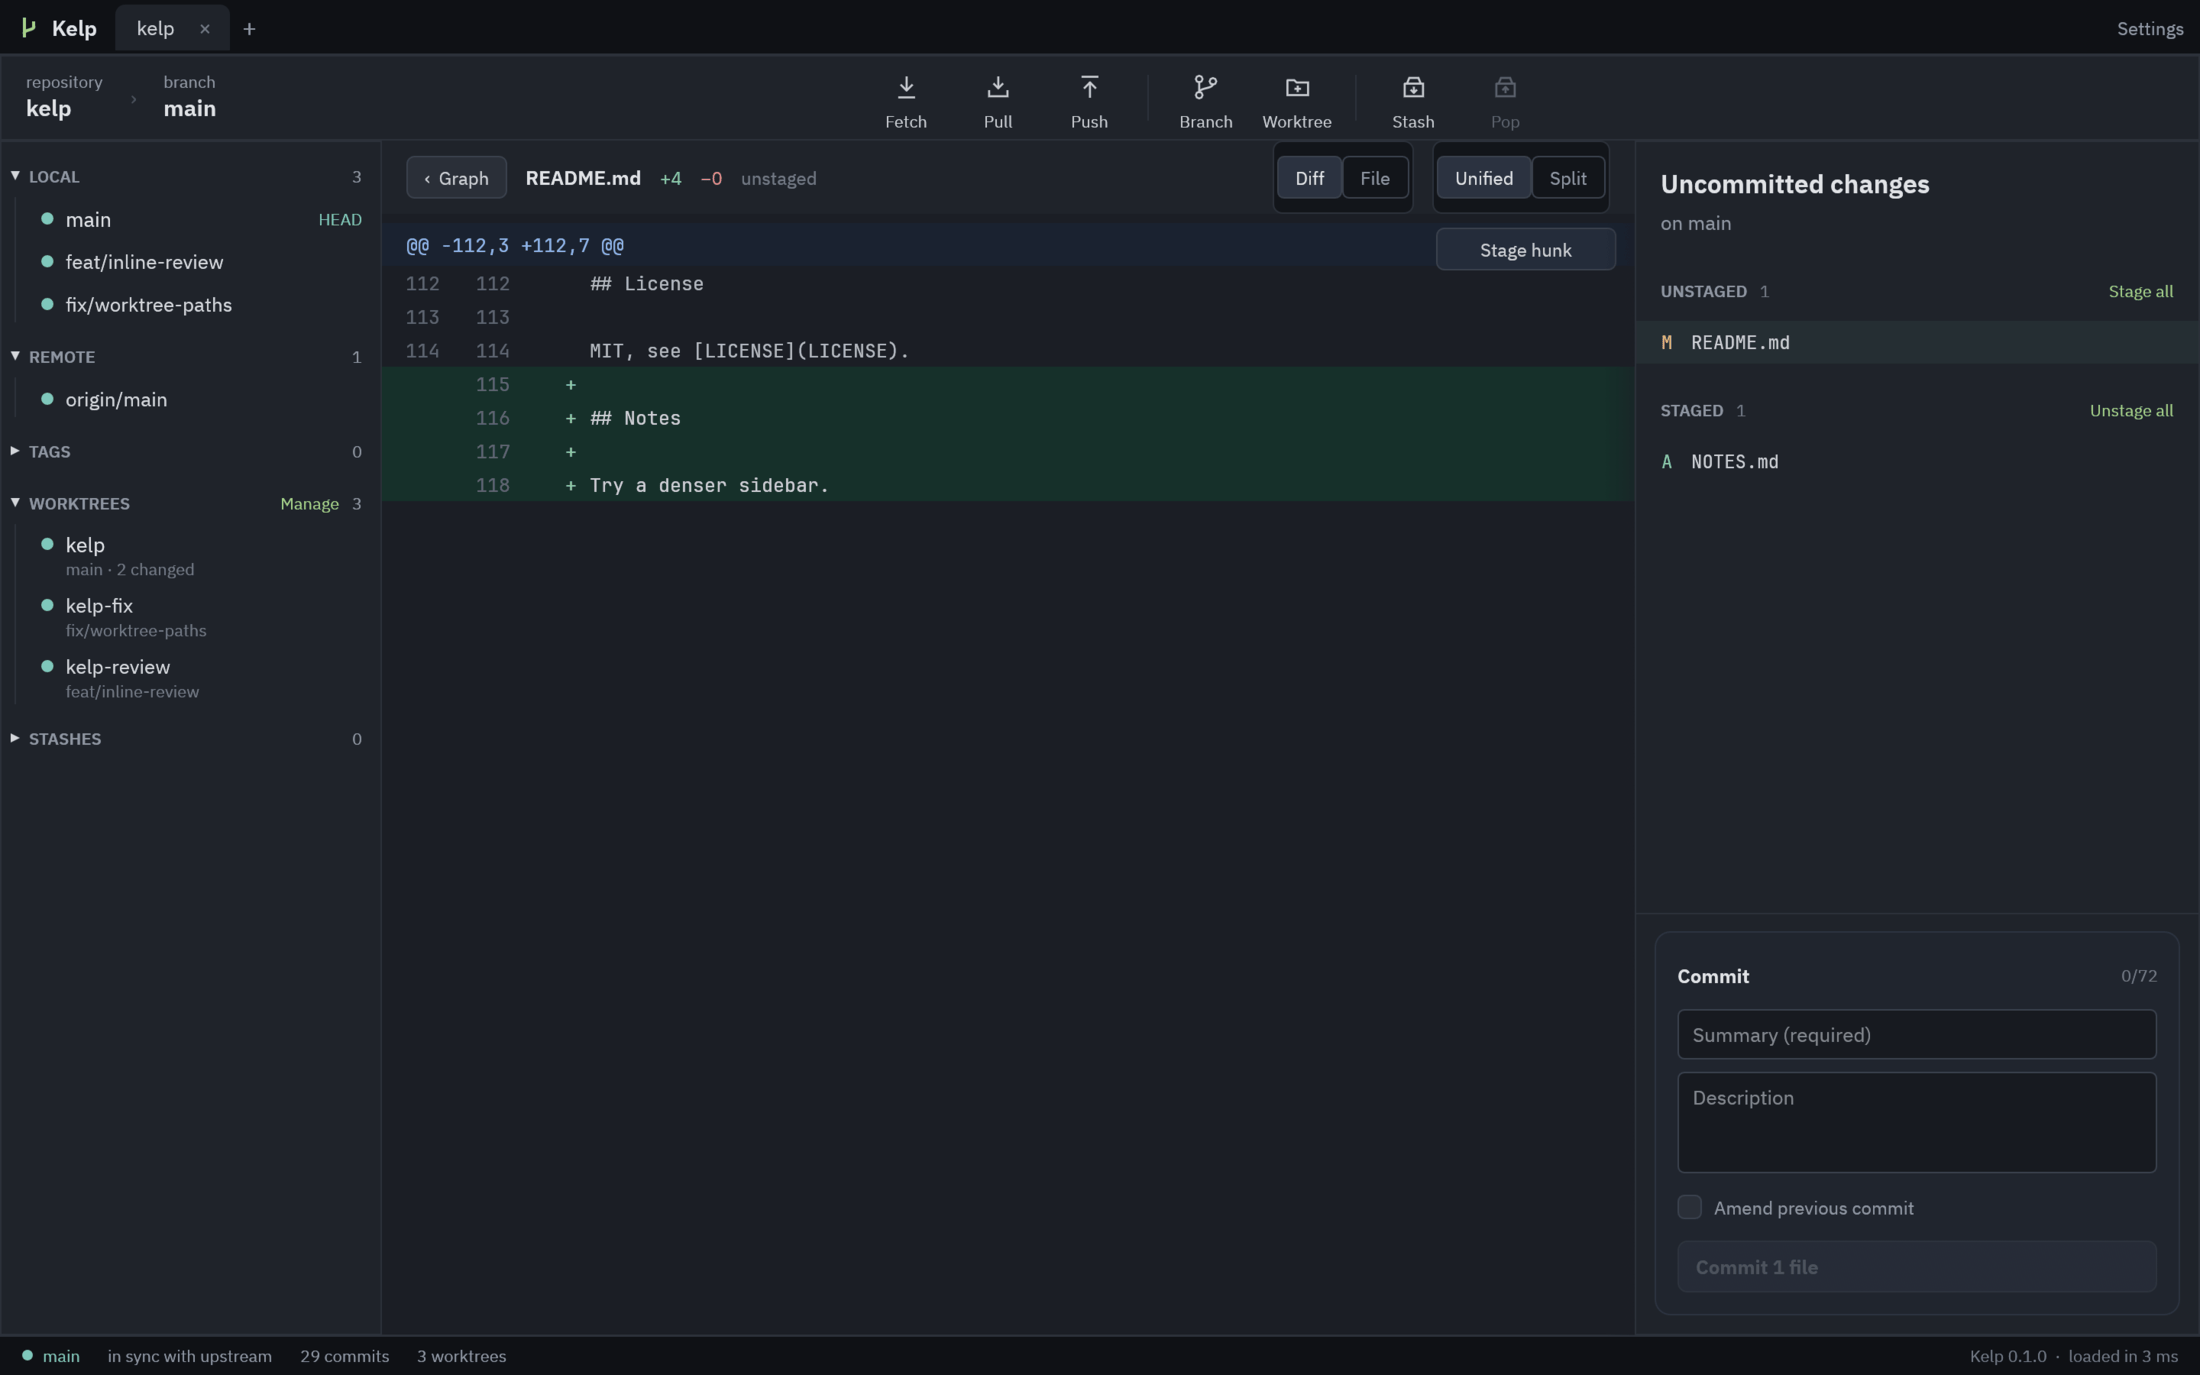
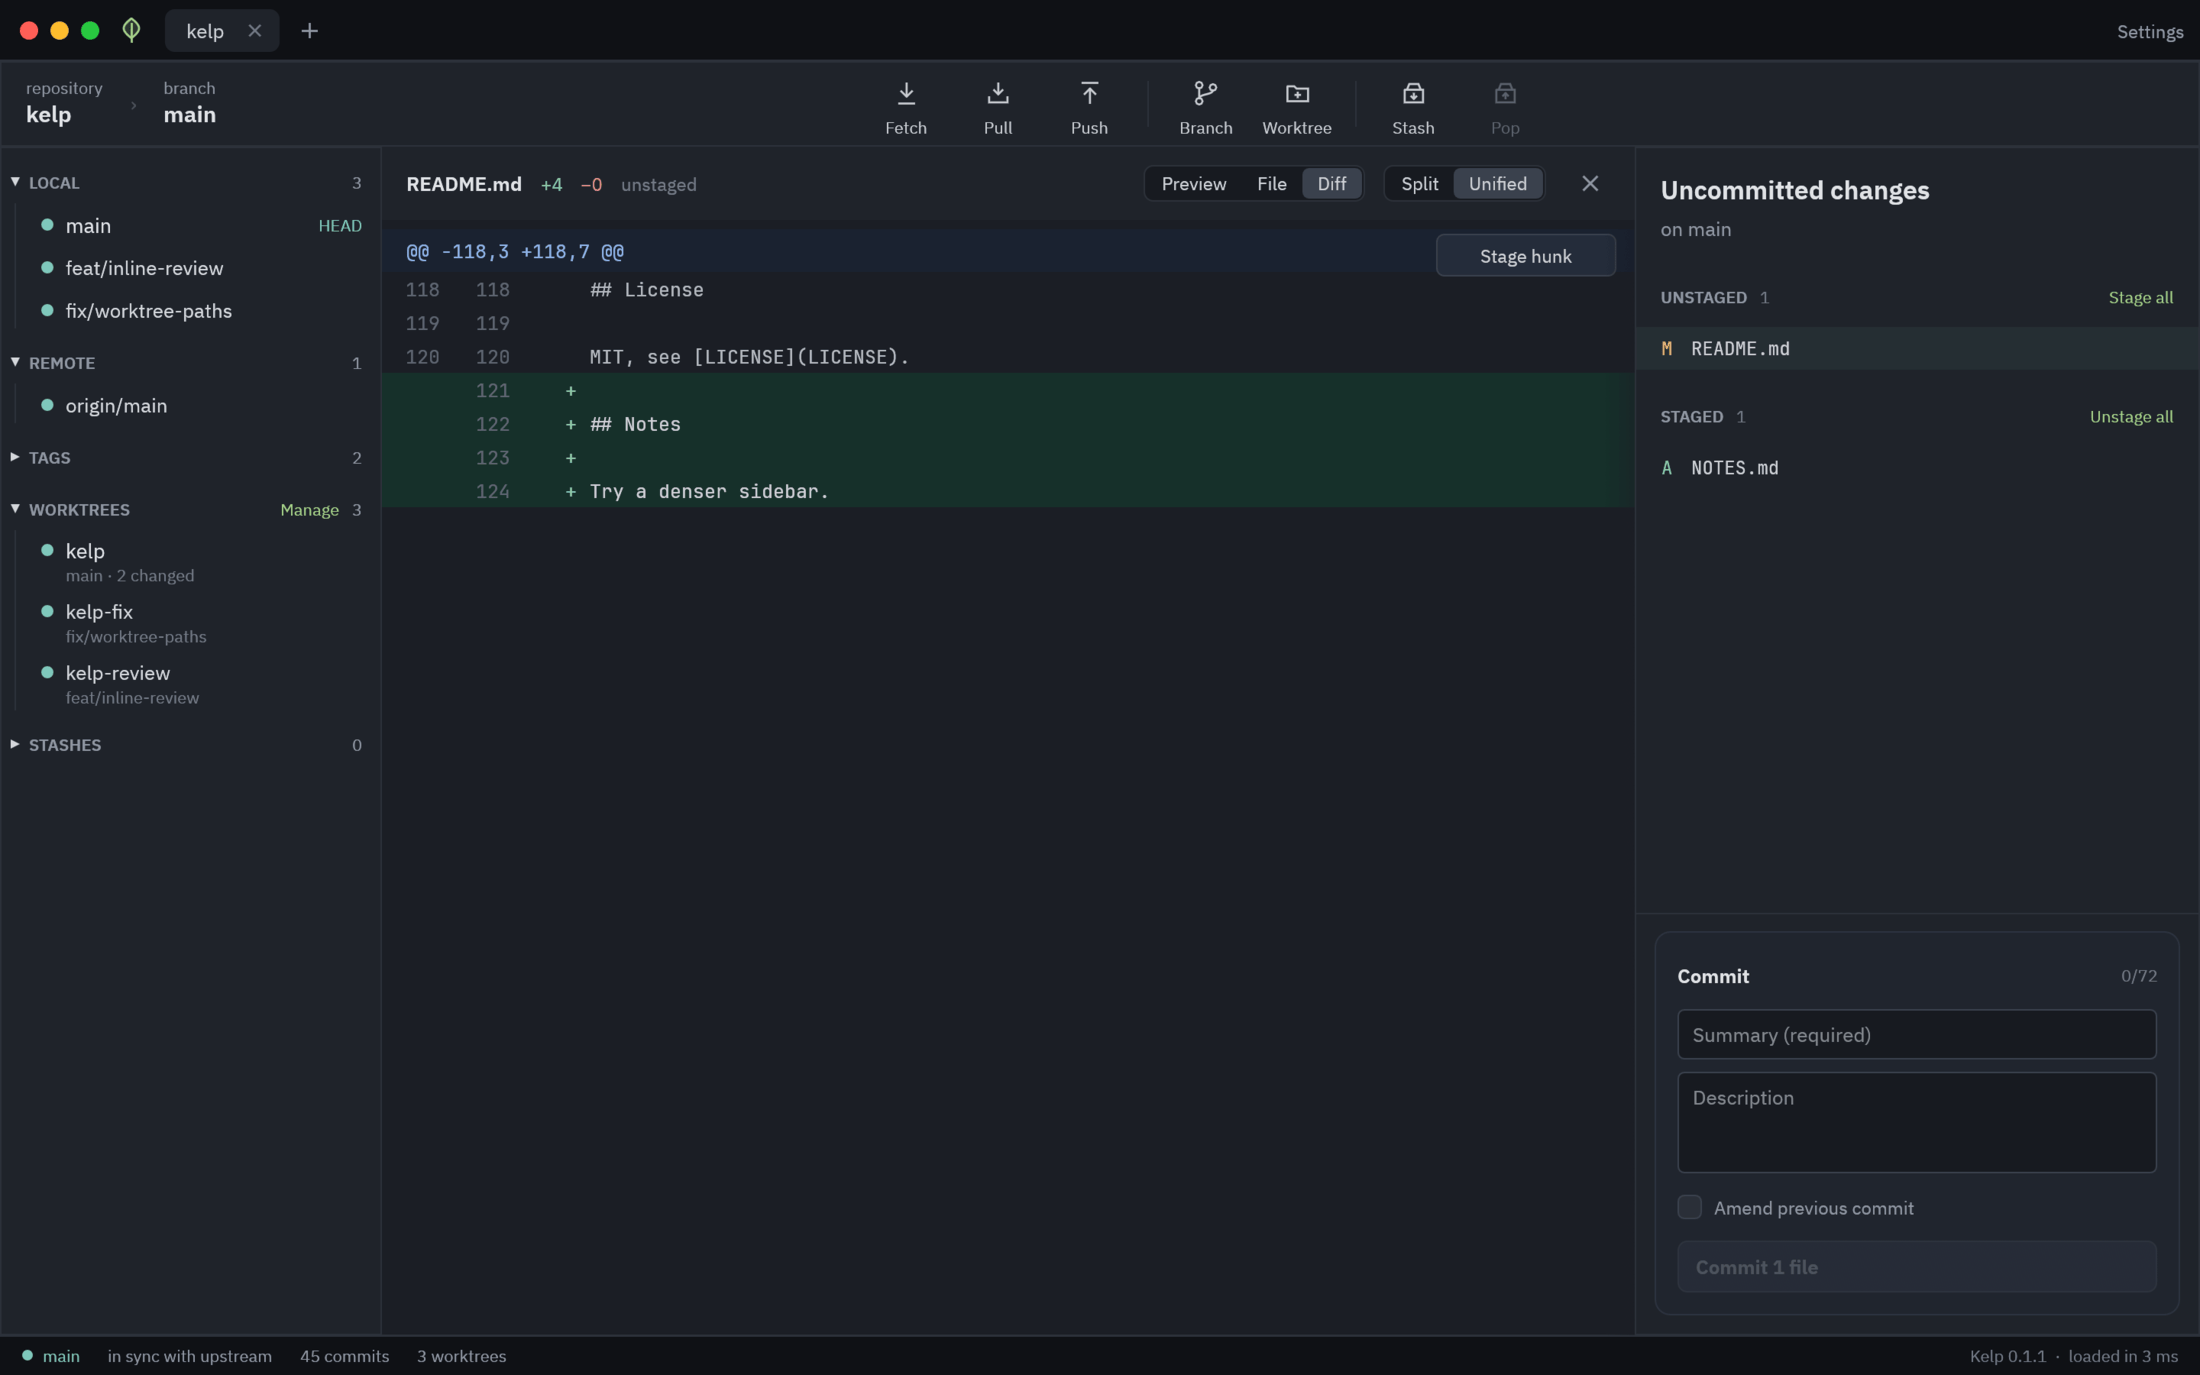
docs(site): screenshots with the new tab strip
Screenshot runs draw the macOS window buttons where AppKit puts them,
since the app's own capture only sees what egui paints.

diff --git a/crates/kelp/src/app.rs b/crates/kelp/src/app.rs
@@ -127,6 +127,9 @@ impl KelpApp {
             )
             .show(ui, |ui| {
                 window_drag_area(ui);
+                if self.screenshot.is_some() && cfg!(target_os = "macos") {
+                    paint_window_buttons(ui);
+                }
                 ui.horizontal_centered(|ui| {
                     ui.spacing_mut().item_spacing.x = 2.0;
                     let fullscreen = ui.input(|i| i.viewport().fullscreen.unwrap_or(false));
@@ -232,6 +235,25 @@ impl KelpApp {
             let ctx = self.ctx.clone();
             self.open_tab(&ctx, folder);
         }
+    }
+}
+
+fn paint_window_buttons(ui: &egui::Ui) {
+    let colors = [
+        Color32::from_rgb(0xff, 0x5f, 0x57),
+        Color32::from_rgb(0xfe, 0xbc, 0x2e),
+        Color32::from_rgb(0x28, 0xc8, 0x40),
+    ];
+    let top = ui.max_rect().top();
+    let left = ui.max_rect().left() - 10.0;
+    for (i, color) in colors.into_iter().enumerate() {
+        let center = egui::pos2(left + 19.0 + i as f32 * 20.0, top + TAB_STRIP_H / 2.0);
+        ui.painter().circle(
+            center,
+            6.0,
+            color,
+            Stroke::new(0.5, Color32::from_black_alpha(60)),
+        );
     }
 }
 
